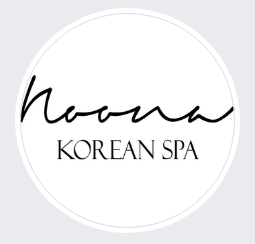
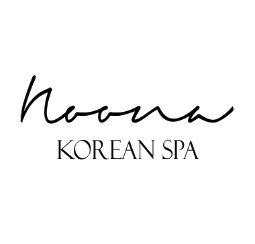
Noona2

diff --git a/clientes/Noona/pro2/index.html b/clientes/Noona/pro2/index.html
@@ -5,7 +5,7 @@
     <title>Noona</title>
     <meta name     = "Keywords" 	      content = "Spa, Salud, Belleza, Masajes, Tratamientos, Faciales, Corporales, Reductivos, Depilación, IPL, SHR, Liposonix, Acné, Rejuvenecimiento, Despigmentante, Microdermoabrasión">
     <meta name     = "description"        content = "Spa">
-	<meta property = "og:image" 		  content = "" />
+	<meta property = "og:image" 			content = "https://gerardoangeles.github.io/clientes/Noona/pro2/img/circle.png">
     <meta property = "og:title" 		  content = "Noona Korean Spa">        
     <meta property = "og:description" 	  content = "Spa · Salud · Belleza">
     <meta property = "og:url" 			  content = "https://www.facebook.com/noonakoreanspa/">
